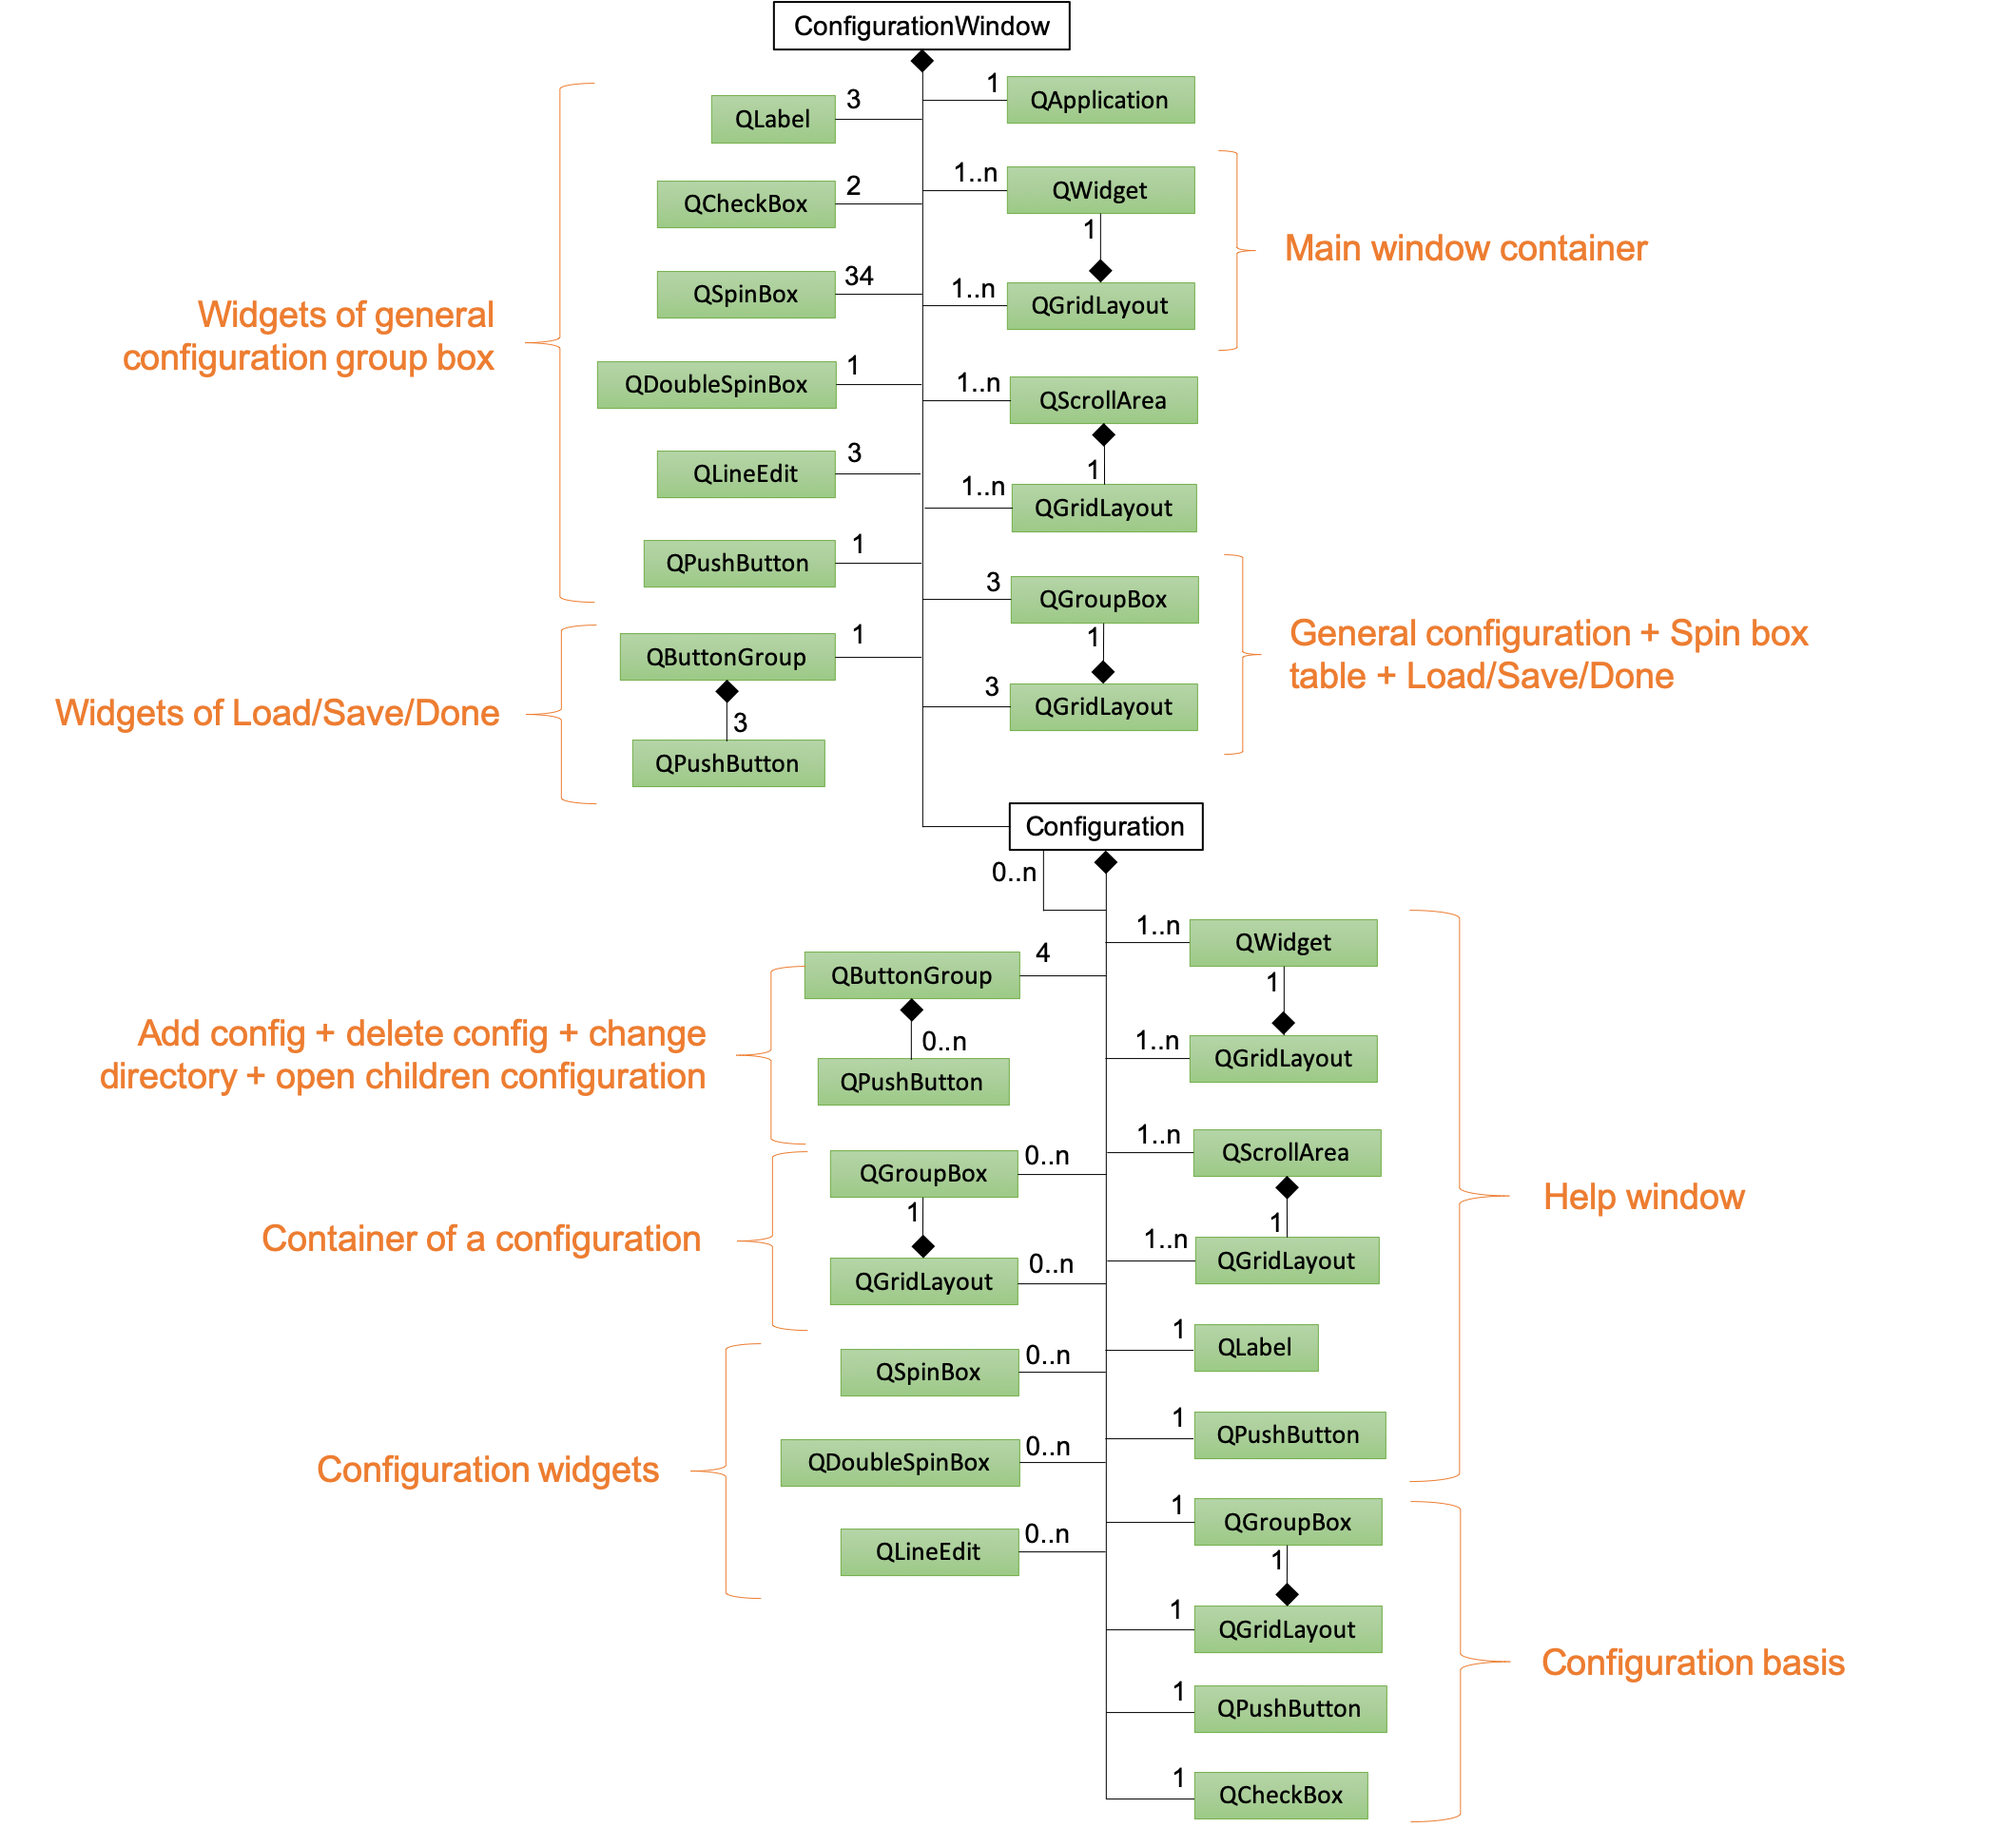
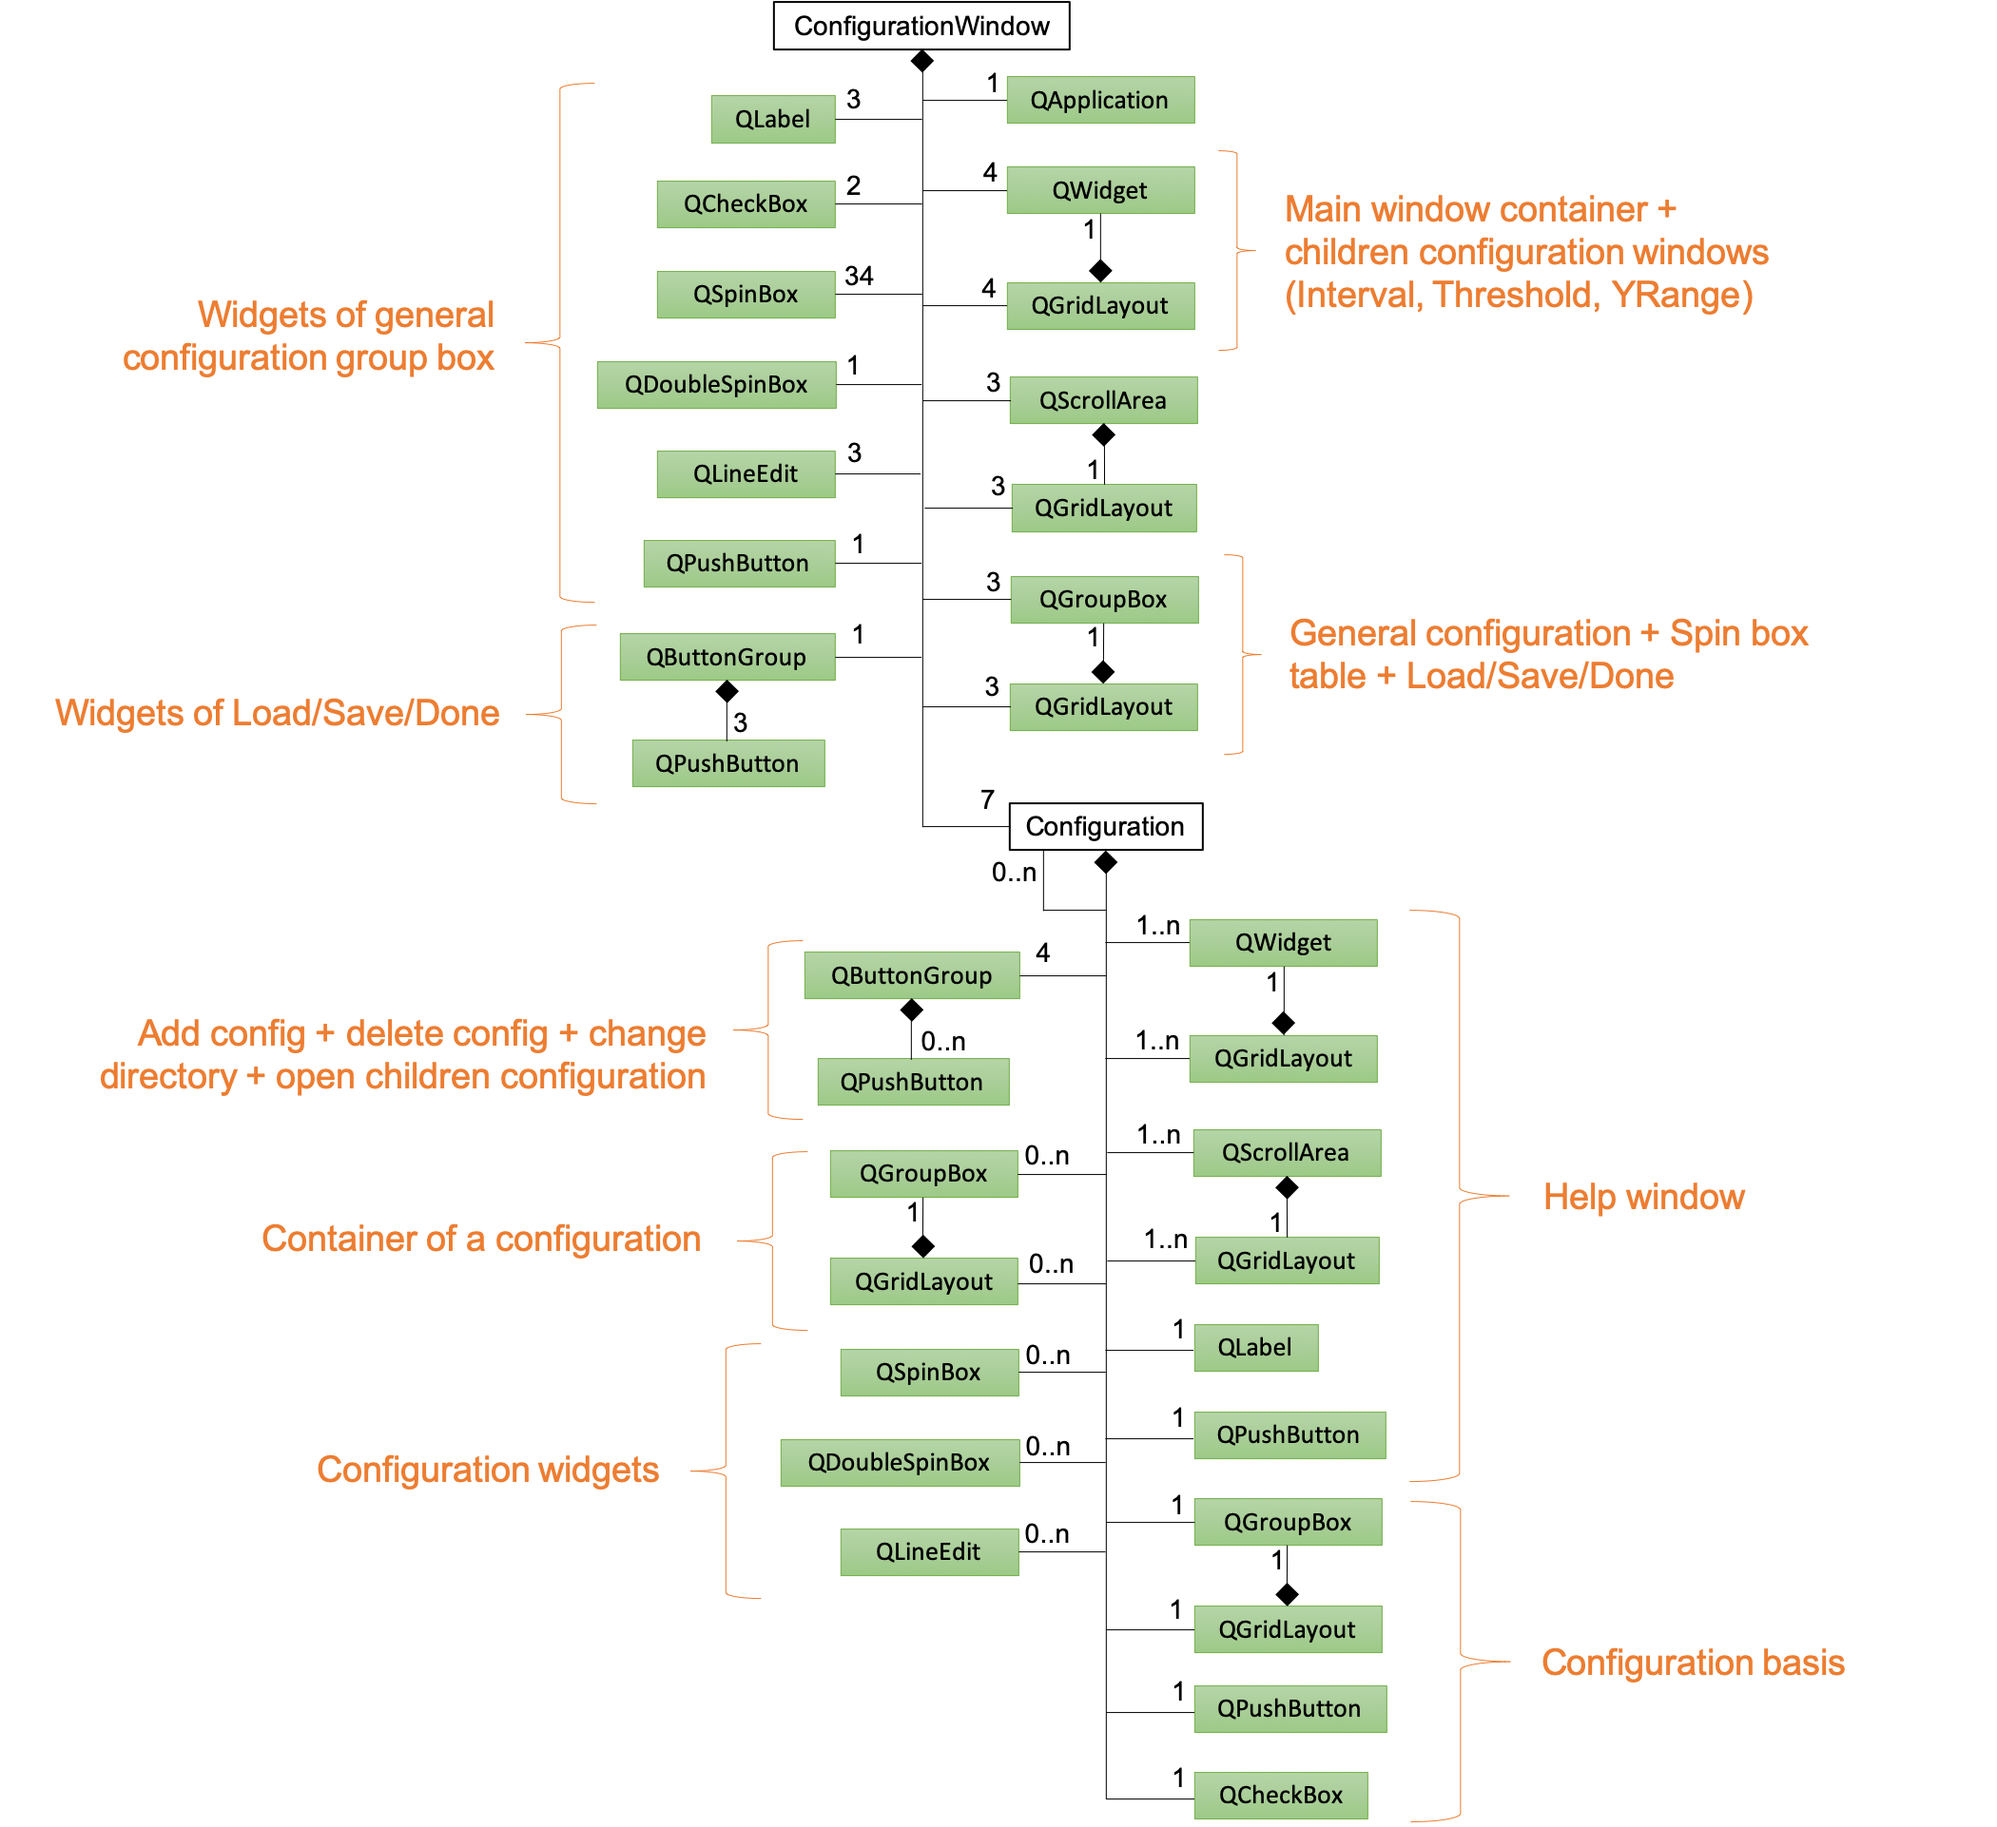
splitClass - update documentation

Changed region(s): [[0.65, 0.0937, 0.8976, 0.1873]]

diff --git a/doc/source/software.rst b/doc/source/software.rst
@@ -121,29 +121,20 @@ The file *.readthedocs.yaml* is useful for the documentation generation on **Rea
 Class diagrams
 ==============
 
-WARNING!!! DIAGRAMS DEPRECATED, TO BE UPDATED
-
 Configuration
 -------------
 
-Figure :numref:`fig-class-diagram-config` is the class diagram of \textbf{ConfigurationWindow} class which launches the configuration tool (see section \ref{sec:configuration}). It is composed of classes from PyQt5.QtWidgets.
+Figure :numref:`fig-class-diagram-config` is the class diagram of :class:`.ConfigurationWindow`, which launches the configuration GUI (see :ref:`config-gui`).
 
 .. _fig-class-diagram-config:
 
 .. figure:: images/class_diagram_configuration.png
 
-  Class diagram of :class:`.ConfigurationWindow` (attributes and methods are not provided) where the classes we implemented are highlighted in green and the other classes are from PyQt5.QtWidgets
+  Class diagram of :class:`.ConfigurationWindow` (attributes and methods are not provided), classes from PyQt5.QtWidgets are hightlighted in green
 
+The windows are contained in an instance of **QWidgets** filled with an instance of **QGridLayout**. There is one instance for the main window and three other instances for the children configuration windows (interval, threshold, Yrange). For each window of child configuration, an instance of **QScrollArea** is created.
 
-**QApplication** class is necessary for the GUI to run.
-
-**QWidget** class contains a window. There are 3 windows. An instance of **QGridLayout** is associated to each window and is the layout to fill. An instance of **QScrollArea** is associated to each window.
-
-There are 5 instances of **QGroupBox** that are present in the 3 windows at launch, each one of them has an associated instance of **QGridLayout** for filling.
-
-The instance of **QButtonGroup** groups the push buttons for loading and saving configuration files as well as closing the window.
-
-We implemented the :class:`.Configuration` class for creating and setting configurations. There are 5 instances: video, signal, threshold, interval and annotation. Each one of them is added to a layout (**QGridLayout**). Every time the user creates a configuration, an instance of **QGroupBox** and its associated layout (**QGridLayout**) are added. An instance of :class:`.Configuration` can have a list of :class:`.Configuration` children. For example, in the configuration GUI, the signal configuration has 2 children: threshold and interval. There are 4 instances of **QButtonGroup**: for showing children windows, for adding a configuration, for deleting a configuration, for changing data directory. In some cases, they might be empty.
+The class :class:`.Configuration` is used to create and set configurations. There are 7 instances: video, signal, threshold, interval, Yrange, events annotation and image annotation. An instance of :class:`.Configuration` can have a list of :class:`.Configuration` children. In particular, the signal configuration has 2 children: threshold and interval.
 
 
 ViSiAnnoT
@@ -155,18 +146,12 @@ Figure :numref:`fig-class-diagram-visiannot` is the class diagram of :class:`.Vi
 
 .. figure:: images/class_diagram_visiannot.png
 
-  Class diagram of :class:`.ViSiAnnoTMultipleRec` (attributes and methods are not provided) where the classes we implemented are highlighted in green, the classes of pyaudio package are highlighted in red, the classes of pyqtgraph package are hightlighted in blue and the other classes are from PyQt5.QtWidgets
+  Class diagram of :class:`.ViSiAnnoTMultipleRec` (attributes and methods are not provided), classes from PyQt5.QtWidgets are hightlighted in green, classes from pyqtgraph are hightlighted in blue
 
 
-:class:`.ViSiAnnoTMultipleRec` inherits from :class:`.ViSiAnnoT`. The file selection in the long recordings is handled by 2 instances of **PlotWidget** with "previous" and "next" images and an instance of :class:`.ComboBox`. This class inherits from **QComboBox** so that keyboard interaction is ignored.
+:class:`.ViSiAnnoTMultipleRec` inherits from :class:`.ViSiAnnoT`.
 
-**QApplication** class is necessary for the GUI to run.
+The class :class:`.ProgressWidget` defines the progress bar. It is composed of an instance of **PlotCurveItem** for the background blue line, an instance of **ScatterPlotItem** for the current position cursor (red dot) and two instances of **InfiniteLine** for the current temporal range bounds.
 
-**QWidget** class contains the window, to which is associated an instance of **QGridLayout** for filling it.
-
-There are between 1 and 4 instances of **QGroupBox**, each one of them has an associated instance of **QGridLayout** for filling. These group boxs contain fast navigations and/or annotation tools.
-
-We implemented the :class:`.ProgressWidget` class for the progress bar. It is composed of an instance of **PlotCurveItem** for the background blue line, an instance of **ScatterPlotItem** for the current position cursor (red dot) and two instances of **InfiniteLine** for the current temporal range bounds.
-
-We implemented the :class:`.SignalWidget` class for plotting signals. It inherits from **PlotWidget**. The constructor is re-implemented so that an instance of :class:`.PlotItemCustom` is used as the central item of the widget. :class:`.PlotItemCustom` inherits from **GraphicsItem.PlotItem.PlotItem**, so that the effect of the "auto-range" button is only applied on the Y axis. We re-implemented the **QScrollArea** class in :class:`.ScrollArea` so that we can add a scroll area containing the signal widgets while ignoring the wheel event for scrolling. Thus, the wheel event is only applied on the plot items.
+The class :class:`.SignalWidget` defines the widgets for plotting signals. It inherits from **PlotWidget**. The constructor is re-implemented so that an instance of :class:`.PlotItemCustom` is used as the central item of the widget. :class:`.PlotItemCustom` inherits from **GraphicsItem.PlotItem.PlotItem**, so that the effect of the "auto-range" button is only applied on the Y axis. We re-implemented the **QScrollArea** class in :class:`.ScrollArea` so that we can add a scroll area containing the signal widgets while ignoring the wheel event for scrolling. Thus, the wheel event is only applied on the plot items.
 

diff --git a/doc/source/userguide-configuration.rst b/doc/source/userguide-configuration.rst
@@ -283,6 +283,7 @@ In a Python script, the general configuration is specified with the keyword argu
 
 If a key is not specified in the configuration file, then the keyword argument takes the default value.
 
+.. _config-gui:
 
 Configuration with the graphical user interface
 ===============================================

diff --git a/doc/source/exe.rst b/doc/source/exe.rst
@@ -1,3 +1,5 @@
+.. _exe:
+
 ================================
 Creating a standalone executable
 ================================
